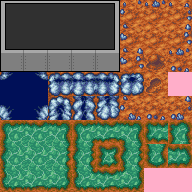
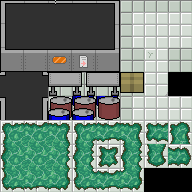
Added new tiles to match the robot theme

diff --git a/DungeonComp.java b/DungeonComp.java
@@ -14,11 +14,11 @@ public class DungeonComp extends JComponent
 
 	private Dungeon dungeon;
 	private BufferedImage[] tiles;
-	private boolean mapToDraw = BASEMAP;
+	private boolean mapToDraw = TILEMAP;
 	private boolean drawNodes = false;
 	private boolean drawPaths = false;
 	private boolean drawRooms = false;
-	private boolean drawEntity = false;
+	private boolean drawEntity = true;
 
 	public DungeonComp(String tileFilename, String tilemapFilename)
 	{
@@ -153,14 +153,14 @@ public class DungeonComp extends JComponent
 		for(RoomNode room : rooms)
 		{
 			ArrayList<Node> nodes = room.getNodes();
-			g.setColor(Color.WHITE);
+			g.setColor(Color.RED);
 			for(Node node : nodes)
 			{
 				int centerX = node.getX() * TILE_SIZE + (TILE_SIZE/4);
 				int centerY = node.getY() * TILE_SIZE + (TILE_SIZE/4);
 				g.fillRect(centerX, centerY, TILE_SIZE/2, TILE_SIZE/2);
 			}
-			g.setColor(Color.GRAY);
+			g.setColor(Color.PINK);
 			int roomCenterX = room.getX() * TILE_SIZE + (TILE_SIZE/4);
 			int roomCenterY = room.getY() * TILE_SIZE + (TILE_SIZE/4);
 			g.fillRect(roomCenterX, roomCenterY, TILE_SIZE/2, TILE_SIZE/2);

diff --git a/Dungeon.java b/Dungeon.java
@@ -8,7 +8,11 @@ import java.awt.image.BufferedImage;
 
 public class Dungeon
 {
-	public static final Species[] TEST_LIST = {Species.ROBOT1, Species.ROBOT2, Species.ROBOT3, Species.ROBOT4, Species.ROBOT5, Species.ROBOT6, Species.ROBOT7, Species.ROBOT8};
+	public static final Species[] TEST_LIST = {
+		Species.ROBOT1, Species.ROBOT2, Species.ROBOT3, 
+		Species.ROBOT4, Species.ROBOT5, Species.ROBOT6, 
+		Species.ROBOT7, Species.ROBOT8, Species.ROBOT9,
+		Species.ROBOT10};
 
 	private String tilemapFilename;
 	private int[][] tilemap;

diff --git a/Species.java b/Species.java
@@ -18,6 +18,8 @@ public class Species
 	public static final Species ROBOT6 = new Species("Robot6", "Sprites/robot6.png");
 	public static final Species ROBOT7 = new Species("Robot7", "Sprites/robot7.png");
 	public static final Species ROBOT8 = new Species("Robot8", "Sprites/robot8.png");
+	public static final Species ROBOT9 = new Species("Robot9", "Sprites/robot9.png");
+	public static final Species ROBOT10 = new Species("Robot10", "Sprites/robot10.png");
 
 	public Species(String name, String imageFilename)
 	{

diff --git a/TileOp.java b/TileOp.java
@@ -65,7 +65,8 @@ public class TileOp
 		}
 		else if(basemap[row][col] == LAND)
 		{
-			newmap[row][col] = 14;
+			int random = (int)(Math.random() * 3);
+			newmap[row][col] = 14 + (random * 8);
 			//System.out.print("||\t");
 		}
 		else
